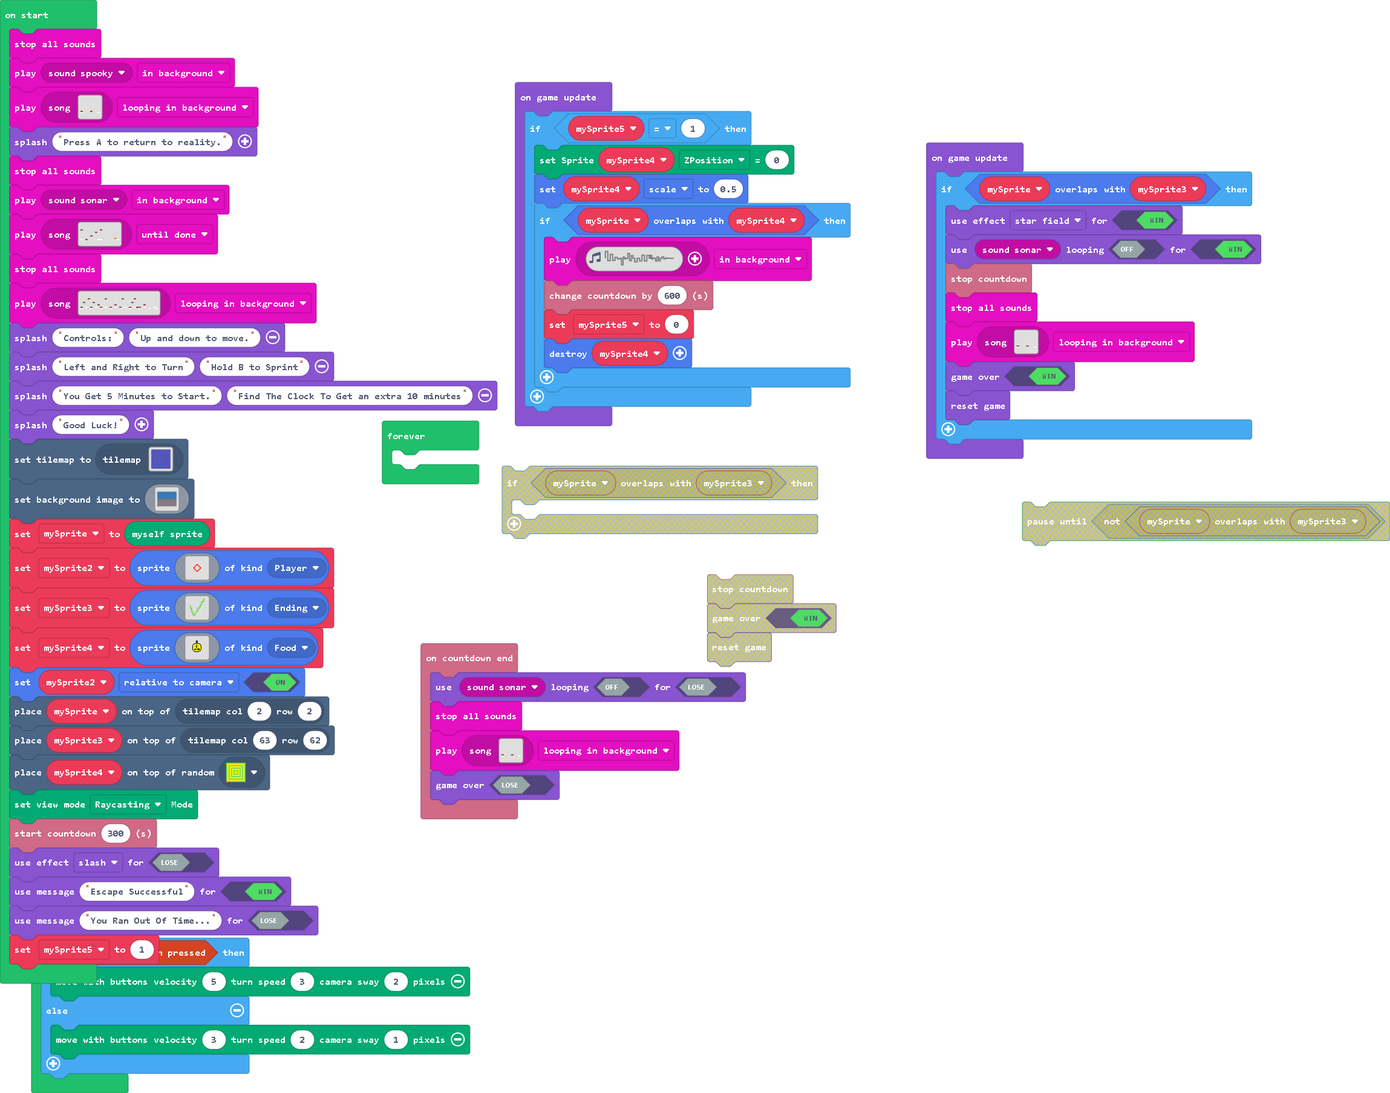
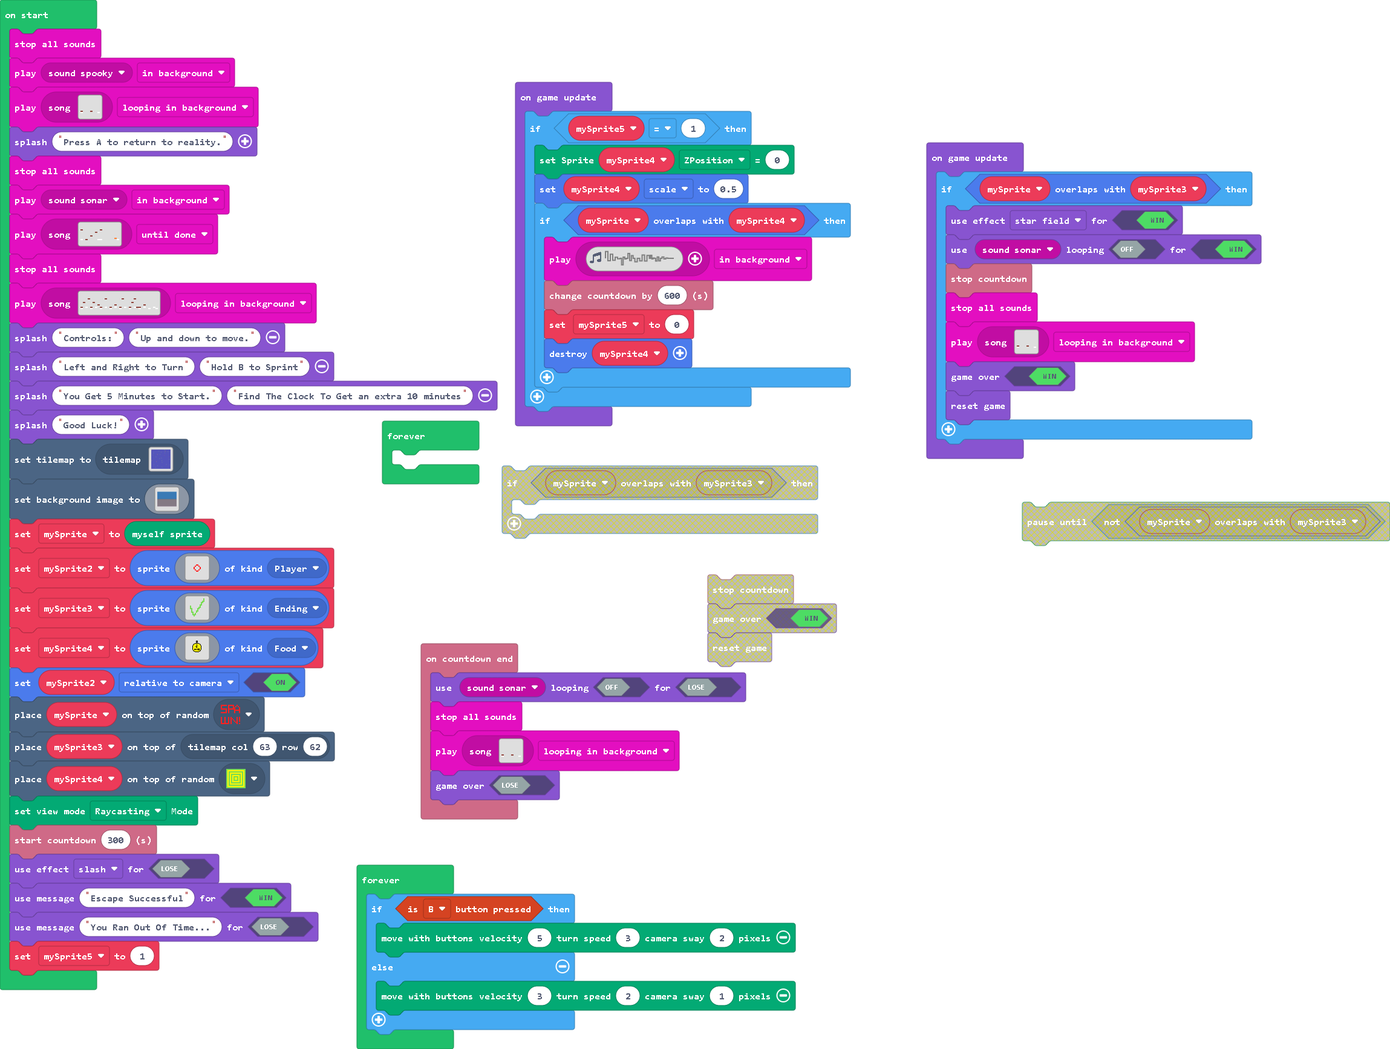
Painful update

Changed region(s): [[0.0, 0.0311, 0.6179, 1.0], [0.6488, 0.1246, 1.0, 0.5294]]

diff --git a/tilemap.g.ts b/tilemap.g.ts
@@ -6,6 +6,8 @@ namespace myTiles {
     export const tile2 = image.ofBuffer(hex``);
     //% fixedInstance jres blockIdentity=images._tile
     export const tile1 = image.ofBuffer(hex``);
+    //% fixedInstance jres blockIdentity=images._tile
+    export const tile3 = image.ofBuffer(hex``);
 
     helpers._registerFactory("tilemap", function(name: string) {
         switch(helpers.stringTrim(name)) {
@@ -47,8 +49,65 @@ namespace myTiles {
 . . . . . . . . . . . . . . . . 
 . . . . . . . . . . . . . . . . 
 `, [myTiles.transparency16], TileScale.Sixteen);
+            case "level4":
+            case "level4":return tiles.createTilemap(hex`1000100000000000000000000000000000000000000000000000000000000000000000000000000000000000000000000000000000000000000000000000000000000000000000000000000000000000000000000000000000000000000000000000000000000000000000000000000000000000000000000000000000000000000000000000000000000000000000000000000000000000000000000000000000000000000000000000000000000000000000000000000000000000000000000000000000000000000000000000000000000000000000000000000000000000000000000000000000000000000000000000000000000000000000000000000000000000`, img`
+. . . . . . . . . . . . . . . . 
+. . . . . . . . . . . . . . . . 
+. . . . . . . . . . . . . . . . 
+. . . . . . . . . . . . . . . . 
+. . . . . . . . . . . . . . . . 
+. . . . . . . . . . . . . . . . 
+. . . . . . . . . . . . . . . . 
+. . . . . . . . . . . . . . . . 
+. . . . . . . . . . . . . . . . 
+. . . . . . . . . . . . . . . . 
+. . . . . . . . . . . . . . . . 
+. . . . . . . . . . . . . . . . 
+. . . . . . . . . . . . . . . . 
+. . . . . . . . . . . . . . . . 
+. . . . . . . . . . . . . . . . 
+. . . . . . . . . . . . . . . . 
+`, [myTiles.transparency16], TileScale.Sixteen);
+            case "level5":
+            case "level5":return tiles.createTilemap(hex`1000100000000000000000000000000000000000000000000000000000000000000000000000000000000000000000000000000000000000000000000000000000000000000000000000000000000000000000000000000000000000000000000000000000000000000000000000000000000000000000000000000000000000000000000000000000000000000000000000000000000000000000000000000000000000000000000000000000000000000000000000000000000000000000000000000000000000000000000000000000000000000000000000000000000000000000000000000000000000000000000000000000000000000000000000000000000000`, img`
+. . . . . . . . . . . . . . . . 
+. . . . . . . . . . . . . . . . 
+. . . . . . . . . . . . . . . . 
+. . . . . . . . . . . . . . . . 
+. . . . . . . . . . . . . . . . 
+. . . . . . . . . . . . . . . . 
+. . . . . . . . . . . . . . . . 
+. . . . . . . . . . . . . . . . 
+. . . . . . . . . . . . . . . . 
+. . . . . . . . . . . . . . . . 
+. . . . . . . . . . . . . . . . 
+. . . . . . . . . . . . . . . . 
+. . . . . . . . . . . . . . . . 
+. . . . . . . . . . . . . . . . 
+. . . . . . . . . . . . . . . . 
+. . . . . . . . . . . . . . . . 
+`, [myTiles.transparency16], TileScale.Sixteen);
+            case "level6":
+            case "level6":return tiles.createTilemap(hex`1000100000000000000000000000000000000000000000000000000000000000000000000000000000000000000000000000000000000000000000000000000000000000000000000000000000000000000000000000000000000000000000000000000000000000000000000000000000000000000000000000000000000000000000000000000000000000000000000000000000000000000000000000000000000000000000000000000000000000000000000000000000000000000000000000000000000000000000000000000000000000000000000000000000000000000000000000000000000000000000000000000000000000000000000000000000000000`, img`
+. . . . . . . . . . . . . . . . 
+. . . . . . . . . . . . . . . . 
+. . . . . . . . . . . . . . . . 
+. . . . . . . . . . . . . . . . 
+. . . . . . . . . . . . . . . . 
+. . . . . . . . . . . . . . . . 
+. . . . . . . . . . . . . . . . 
+. . . . . . . . . . . . . . . . 
+. . . . . . . . . . . . . . . . 
+. . . . . . . . . . . . . . . . 
+. . . . . . . . . . . . . . . . 
+. . . . . . . . . . . . . . . . 
+. . . . . . . . . . . . . . . . 
+. . . . . . . . . . . . . . . . 
+. . . . . . . . . . . . . . . . 
+. . . . . . . . . . . . . . . . 
+`, [myTiles.transparency16], TileScale.Sixteen);
             case "level":
-            case "level1":return tiles.createTilemap(hex`4000400001010101010101010101010101010101010101010101010101010101010101010101010101010101010101010101010101010101010101010101010101010101010101010101010101010101010101010101010101010101010101010101010101010101010101010101010102010101010101010101010101010101010101010102010101010101010101010101010101010101010101010101010101010101010101010101010101010101010101010101010101010101010101010101010101010101010101010101010101010101010101010101010101010101010101010101010101010101010101010101010101010101010101010101010101010101010101010101010101010101010101010101010101010101010101010101010101010101010101010101010101010101010101010101010101010101010101010101010101010101010101010101010101010101010101010102010101010101010101010101010101010101010102010101010101010101010101010101010101010101010101010101010101010101010101010101010101010101010101010101010101010101010101010101010101010101010101010101010101010101010101010101010101010101010101010101010101010101010101010101010101010101010101010101010101010101010101010101010201010101010101010101010101010101010101010101010101010101010101010101010101010101010101010101010101010101010101010101010101010101010101010101010101010101010101010101010101010101010101010101010101010101010101010102010101010101010101010101010101010101010101010101010101010101010101010101010101010101010101010101010101010101010101010101010101010101010101010101010101010101010101010101010101010101010101010101010101010101020101010101010101010101010101010101010101010101010101010101010101010101010201010101010101010101010101010101010101010101010101010101010101010101010101010101010101010101010101010101010101010101010101010101010101010101010101010101010101010101010101010101010101010101010101010101010101010101010101010101010101010101010101010101010101010101010101010101010101010101010101010101010101010101010101010101010101010101010101010101010101010101010101010101010101010101010101010101010101010101010101010101010101010101010101010101010101010101010101010101010101010101010101010101010101010101010101010101010101010101010101010101010101010101010101010101010101010101010101010101010101020101010101010102010101010101010101010101010101010101010101010101010101010101010101010101010101010101010101010101010101010101010101010101010101010101010101010101010101010101010101010101010101010101010101010101010101010101010201010101010101010101010101010101010101010101010101010101010101010101010101010101010101010101010101010101010101010101010101010101010101010101010101010101010101010101010101010101010101010101010101010101010101010101010101010101010101010101010101010101010101010101010101010101010101010101010101010101010101010101010101010101010101010101010101010101010101010101010101010101010101010101010101010101010101010101010101010101010101010101010101010101010101010101010101010101010101010101010101010101010101010101010101010101010101010101010101010101010101010101010101010101010101010101010101010101010101010101010101010101010101010101010101010101010101010101010101010101010101010101010101010101010101010101010101010101010101010101010101010101010101010101010101010101010101010101010101010101010101010101020101010101010101010101010101010101010101010101010101010101010101010101010101010101010101010101010101010101010101010101010101010101010101010101010101010101010101010101010101010101010101010101010101010101010101010101010101010101010101010101010101010101010101010101010101010101010101010101010101010101010101010101010101010101010101010101010101010101010101010101010101010101010101010101010101010101010101010101010101010101010101010101010101010101010101010101010101010101010101010101010101010101010101010101010101010101010101010101010101010101010101010201010101010101010101010101010101010101010101010101010101010101010101010101010101010101010101010101010101010101010101010101010101010101010101010101010101010101010101010101010101010101010101010101010101010101010101010101010101010101010101010101020101010101010101010101010101010101010101010101010101010101010101010101010101010101010101010101010101010101010101010101010101010101010101010101010101010101010101010101010101010101010101010101010101010101010101010101010101010101010101010101010101010101010101010101010101010101010101010101010101010101010101010101010101010201010101010101010101010101010101010101010101010101010101010101010101010101010101010101010101010101010101010101010101010101010101010101010101010101010101010101010101010101010101010101010101010101010101010101010101010101010101010101010101010101010101010101010101010101010101010101010101010101010101010101010101010101010101010101010101010101010101010101010101010101010101010101010101010101010101010101010101010101010101010101010101010101010101010101010101010101010201010101010101010101010101010101010101010101010101010101010102010101010101010101010101010101010101010101010101010101010101010101010101010101010101010101010101010101010101010101010101010101010101010101010101010101010101010101010101010101010101010101010101010101010101010101010101010101010101010101010101010101010101010101010101010101010101010101010101010101010101010101010101010101010101010101010101010101010101010101010101010101010101010101010101010101010101010101010101010102010101010101010101010101010101010101010101010101010101010101010101010101010101010101010101010101010101010101010101010101010101010101010101010101010101010101010101010101010101010101010101010101010101010101010101010101010101010101010101010101010101010101010101010101010101010101010101010101010102010101010101010101010101010101010101010101010101010101010101010101010101010101010101010101010101010101010101010101010101010101010101010101010101010101010101010101010101010101010101010101010101010101010101010101010101010101010101010101010101010101010101010101010101010101010101010101010101010101010101010101010101010101010101010101010101010101010101010101010101010101010101010101010101010101010101010101010101010101010101010101010101010101010101010101010101010101010101010101010101010101010101010101010101010101010101010101010101010101010101010101010101010101010101010101010101010101010101010101010101010101010101010101010101010101010101010101010101010101010101010101010101010101010101010101010101010101010101010101010101010101010101010101010101010101010101010101010101010101010101010101010101010101010101010101010101010101010101010101010101010101010101010101010101010101010101010101010101010101010101010101010101010101010102010101010101010101010101010101010101010101010201010101010101010101010101010101010101010101010101010101010101010101010101010101010101010101010101010101010101010101010101010101010101010101010101010101010101010101010101010101010101010101010101010101010101010101010101010101010101020101010101010101010101010101010101010101010101010101010101010101010101010101010101010101010101010101010101010101010101010101010101010101010101010101010101010101010101010101010201010101010101010101010101010101010101010101010101010101010101010101010101010101010101010101010101010101010101010101010101010101010101010101010101010101010101010101010101010101010101010101010101010101010101010101010101010101010101010101010101010101010101010101010101010101010101010101010101010101010101010101010101010101010101010101010101010101010101010101010101010101010101010101010101010101010101010101010101010101010101010101010101010101010101010101010101010101010101010101010101010101010101010101010101010101010101010101010101010101010101010101010101010101010101010101010101010101010101010101010101010101010101010101010101010101010101010101010101010101010101010101020101010101010101010101010101010101010101010101010101010101010101010101010101010101020101010101010101010101010101010101010101010101010101010101010101010101010101010101010101010101010101010101010101010101010101010101010101010101010101010101010101010101010101010101010101010101010101010101010101010101010101010101010101010101010101010101010101010101010101010101010101010101010101010101010101010101010101010101010101010101010101010101010101010101010101010101010101010101010101010101010101010101010101010101010101010101010101010101010101010101010101010101010101010101010101010101010101010101010101010101010101010101010101010101010101010101010101010101010101010101010101010101010101010101010101010101`, img`
+            case "level1":return tiles.createTilemap(hex`4000400001010101010101010101010101010101010101010101010101010101010101010101010101010101010101010101010101010101010101010101010101010101010101010101010101010101010101010101010101010101010101010101010101010101010101010101010102010101010101010101010101010101010101010102030101010101010101010101010101010101010101010101010101010101010101010101010101010101010101010101010101010101010101010101010101010101010101010101010101010101010101010101010101010101010101010101010101010101010101010101010101010101010101010101010101010101010101010101010101010101010101010101010101010101010101010101010101010101010101010101010101010101010101010101010101010101010101010101010101010101010101010101010101010101010101010102010101010101010101010101010101010101010102030101010101010101010101010101010101010101010101010101010101010101010101010101010101010101010101010101010101010101010101010101010101010101010101010101010101010101010101010101010101010101010101010101010101010101010101010101010101010101010101010101010101010101010101010101010201010101010101010101010101010101010101010101010101010101010101010101010101010101010101010101010101010101010101010101010101010101010101010101010101010101010101010101010101010101010101010101010101010101010101010102010101010101010101010101010101010101010101010101010101010101010101010101010101010101010101010101010101010101010101010101010101010101010101010101010101010101010101010101010101010101010101010101010101010101020101010101010101010101010101010101010101010101010101010101010101010101010201010101010101010101010101010101010101010101010101010101010101010101010101010101010101010101010101010101010101010101010101010101010101010101010101010101010101010101010101010101010101010101010101010101010101010101010101010101010101010101010101010101010101010101010101010101010101010101010101010101010101010101010101010101010101010101010101010101010101010101010101010101010101010101010101010101010101010101010101010101010101010101010101010101010101010101010101010101010101010101010101010101010101010101010101010101010101010101010101010101010101010101010101010101010101010101010101010101010103020101010101010102010101010101010101010101010101010101010101010101010101010101010101010101010101010101010101010101010101010101010101010101010101010101010101010101010101010101010101010101010101010101010101010101010101010101010201010101010101010101010101010101010101010101010101010101010101010101010101010101010101010101010101010101010101010101010101010101010101010101010101010101010101010101010101010101010101010101010101010101010103010101010101010101010101010101010101010101010101010101010101010101010101010101010101010101010101010101010101010101010101010101010101010101010101010101010101010101010101010101010101010101010101010101010101010101010101010101010101010101010101010101010101010101010101010101010101010101010101010101010101010101010101010101010101010101010101010101010101010101010101010101010101010101010101010101010101010101010101010101010101010101010101010101010101010101010101010101010101010101010101010101010101010101010101010101010101010101010101010101010101010101010101010101010101010101010101010101020101010101010101010101010101010101010101010101010101010101010101010101010101010101010103010101010101010101010101010101010101010101010101010101010101010101010101010101010101010101010101010101010101010101010101010101010101010101010101010101010101010101010101010101010101010101010101010101010101010101010101010101010101010101010101010101010101010101010101010101010101010101010101010101010101010101010101010101010101010101010101010101010101010101010101010101010101010101010101010101010101010101010101010101010101010101010101010101010101010101010101010201010101010101010101010101010101010101010101010101010101010101010101010101010101010101010101010101010101010101010101010101010101010101010101010101010101010101010101010101010101010101010101010101010101010101010101010101010101010101010101010101020101010101010101010101010101010101010101010101010101010101010101010101010101010101010101010101010101010101010101010101010101010101010101010101010101010101010101010101010101010101010101010101010101010101010101010101010101010101010101010101010101010101010101010101010101010101010101010101010101010101010101010101010101010201010101010101010101010101010101010101010101010101010101010101010101010101010101010101010101010101010101010101010101010101010101010101010103010101010101010101010101010101010101010101010101010101010101010101010101010101010101010101010101010101010101010101010101010101010101010101010101010101010101010101010101010101010101010101010101010101010101010101010101010101010101010101010101010101010101010101010101010101010101010101010101010101010101010101010101010101010201010101010101010101010101010101010101010101010101010101010102010101010101010101010101010101010101010101010101010101010101010101010101010101010101010101010101010101010101010101010101010101010101010101010101010101010101010101010101010101010101010101010101010101010101010101010101010101010101010101010101010101010101010101010101010101010101010101010301010101010101010101010101010101010101010101010101010101010101010101010101010101010101010101010101010101010101010101010101010102010101010101010101010101010101010101010101010101010101010101010101010101010101010101010101010101010101010101010101010101010101010101010101010101010101010101010101010101010101010101010101010101010101010101010101010101010101010101010101010101010101010101010101010101010101010101010101010101010102010101010101010101010101010101010101010101010101010101010101010101010101010101010101010101010101010101010101010101010101010101010101010101010101010101010101010101010101010101010101010101010101010101010101010101010101010101010101010101010101010101010101010101010101010101010101010101010101010101010101010101010101010101010101010101010101010101010101010101010101010101010101010101010101010101010101010101010101010101010101010101010101010101010101010101010101010101010101010101010101010101010101010101010101010101010101010101010101010101010101010101010101010101010101010101010101010101010101010101010101010101010101010101010101010101010101010101010101010101010101010101010101010101010101010101010101010101010101010101010101010101010101010101010101010101010101010101010101010101010101010101010101010101010101010101010101010101010101010101010101010101010101010101010101010101010101010101010101010101010101010101010101010101010102010101010101010101010101010101010101010101010201010101010101010101010101010101010101010101010101010101010101010101010101010101010101010101010101010101010101010101010101010101010101010101010101010101010101010101010101010101010101010101010101010101010101010101010101010101010101020101010101010101010101010101010101010101010101010101010101010101010101010101010101010101010101010101010101010101010101010101010101010101010101010101010101010101010101010101010201010101010101010101010101010101010101010101010101010101010101010101010101010101010101010101010101010101010101010101010101010101010101010101010101010101010101010101010101010101010101010101010101010101010101010101010101010101010101010101010101010101010101010101010101010101010101010101010101010101010101010101010101010101010101010101010101010101010101010101010101010101010101010101010101010101010101010101010101010101010101010101010101010101010101010101010101010101010101010101010101010101010101010101010101010101010101010101010101010101010101010101010101010101010101010101010101010101010101010101010101010101010101010101010101010101010101010101010101010101010101010101020101010101010101010101010101010101010101010101010101010101010101010101010101010101020101010101010101010101010101010101010101010101010101010101010101010101010101010101010101010101010101010101010101010101010101010101010101010101010101010101010101010101010101010101010101010101010101010101010101010101010101010101010101010101010101010101010101010101010101010101010101010101010101010101010101010101010101010101010101010101010101010101010101010103010101010101010101010101010101010101010101010101010101010101010101010101010101010101010101010101010101010101010101010101010101010101010101010101010101010101010101010101010101010101010101010101010101010101010101010101010101010101010101010101010101010101`, img`
 2222222222222222222222222222222222222222222222222222222222222222
 2.......2.....................22222222222....2.2...2...2......22
 2...............2.............22222222222.2222...2...2.2.2....22
@@ -113,45 +172,7 @@ namespace myTiles {
 2...........2....2....2.222.22.2.2222222222222222222222222222222
 2.................2...2........2................................
 2222222222222222222222222222222222222222222222222222222222222222
-`, [myTiles.transparency16,myTiles.tile1,myTiles.tile2], TileScale.Sixteen);
-            case "level4":
-            case "level4":return tiles.createTilemap(hex`1000100000000000000000000000000000000000000000000000000000000000000000000000000000000000000000000000000000000000000000000000000000000000000000000000000000000000000000000000000000000000000000000000000000000000000000000000000000000000000000000000000000000000000000000000000000000000000000000000000000000000000000000000000000000000000000000000000000000000000000000000000000000000000000000000000000000000000000000000000000000000000000000000000000000000000000000000000000000000000000000000000000000000000000000000000000000000`, img`
-. . . . . . . . . . . . . . . . 
-. . . . . . . . . . . . . . . . 
-. . . . . . . . . . . . . . . . 
-. . . . . . . . . . . . . . . . 
-. . . . . . . . . . . . . . . . 
-. . . . . . . . . . . . . . . . 
-. . . . . . . . . . . . . . . . 
-. . . . . . . . . . . . . . . . 
-. . . . . . . . . . . . . . . . 
-. . . . . . . . . . . . . . . . 
-. . . . . . . . . . . . . . . . 
-. . . . . . . . . . . . . . . . 
-. . . . . . . . . . . . . . . . 
-. . . . . . . . . . . . . . . . 
-. . . . . . . . . . . . . . . . 
-. . . . . . . . . . . . . . . . 
-`, [myTiles.transparency16], TileScale.Sixteen);
-            case "level5":
-            case "level5":return tiles.createTilemap(hex`1000100000000000000000000000000000000000000000000000000000000000000000000000000000000000000000000000000000000000000000000000000000000000000000000000000000000000000000000000000000000000000000000000000000000000000000000000000000000000000000000000000000000000000000000000000000000000000000000000000000000000000000000000000000000000000000000000000000000000000000000000000000000000000000000000000000000000000000000000000000000000000000000000000000000000000000000000000000000000000000000000000000000000000000000000000000000000`, img`
-. . . . . . . . . . . . . . . . 
-. . . . . . . . . . . . . . . . 
-. . . . . . . . . . . . . . . . 
-. . . . . . . . . . . . . . . . 
-. . . . . . . . . . . . . . . . 
-. . . . . . . . . . . . . . . . 
-. . . . . . . . . . . . . . . . 
-. . . . . . . . . . . . . . . . 
-. . . . . . . . . . . . . . . . 
-. . . . . . . . . . . . . . . . 
-. . . . . . . . . . . . . . . . 
-. . . . . . . . . . . . . . . . 
-. . . . . . . . . . . . . . . . 
-. . . . . . . . . . . . . . . . 
-. . . . . . . . . . . . . . . . 
-. . . . . . . . . . . . . . . . 
-`, [myTiles.transparency16], TileScale.Sixteen);
+`, [myTiles.transparency16,myTiles.tile1,myTiles.tile2,myTiles.tile3], TileScale.Sixteen);
         }
         return null;
     })
@@ -163,6 +184,8 @@ namespace myTiles {
             case "tile2":return tile2;
             case "WallForMaze":
             case "tile1":return tile1;
+            case "spawnpoint":
+            case "tile3":return tile3;
         }
         return null;
     })

diff --git a/images.g.ts b/images.g.ts
@@ -270,7 +270,7 @@ cccccccccccccccccccccccccccccccccccccccccccccccccccccccccccccccccccccccccccccccc
     helpers._registerFactory("song", function(name: string) {
         switch(helpers.stringTrim(name)) {
             case "song2":
[2 lines of base64/hex data omitted]
             case "song1":
[1 lines of base64/hex data omitted]
             case "=%R6ZcQKaeJr#xm*A@zI":

diff --git a/main.ts b/main.ts
@@ -27,7 +27,7 @@ let mySprite2 = sprites.create(assets.image`center`, SpriteKind.Player)
 let mySprite3 = sprites.create(assets.image`myImage3`, SpriteKind.Ending)
 let mySprite4 = sprites.create(assets.image`myImage4`, SpriteKind.Food)
 mySprite2.setFlag(SpriteFlag.RelativeToCamera, true)
-tiles.placeOnTile(mySprite, tiles.getTileLocation(2, 2))
+tiles.placeOnRandomTile(mySprite, assets.tile`spawnpoint`)
 tiles.placeOnTile(mySprite3, tiles.getTileLocation(63, 62))
 tiles.placeOnRandomTile(mySprite4, assets.tile`End`)
 Render.setViewMode(ViewMode.raycastingView)
